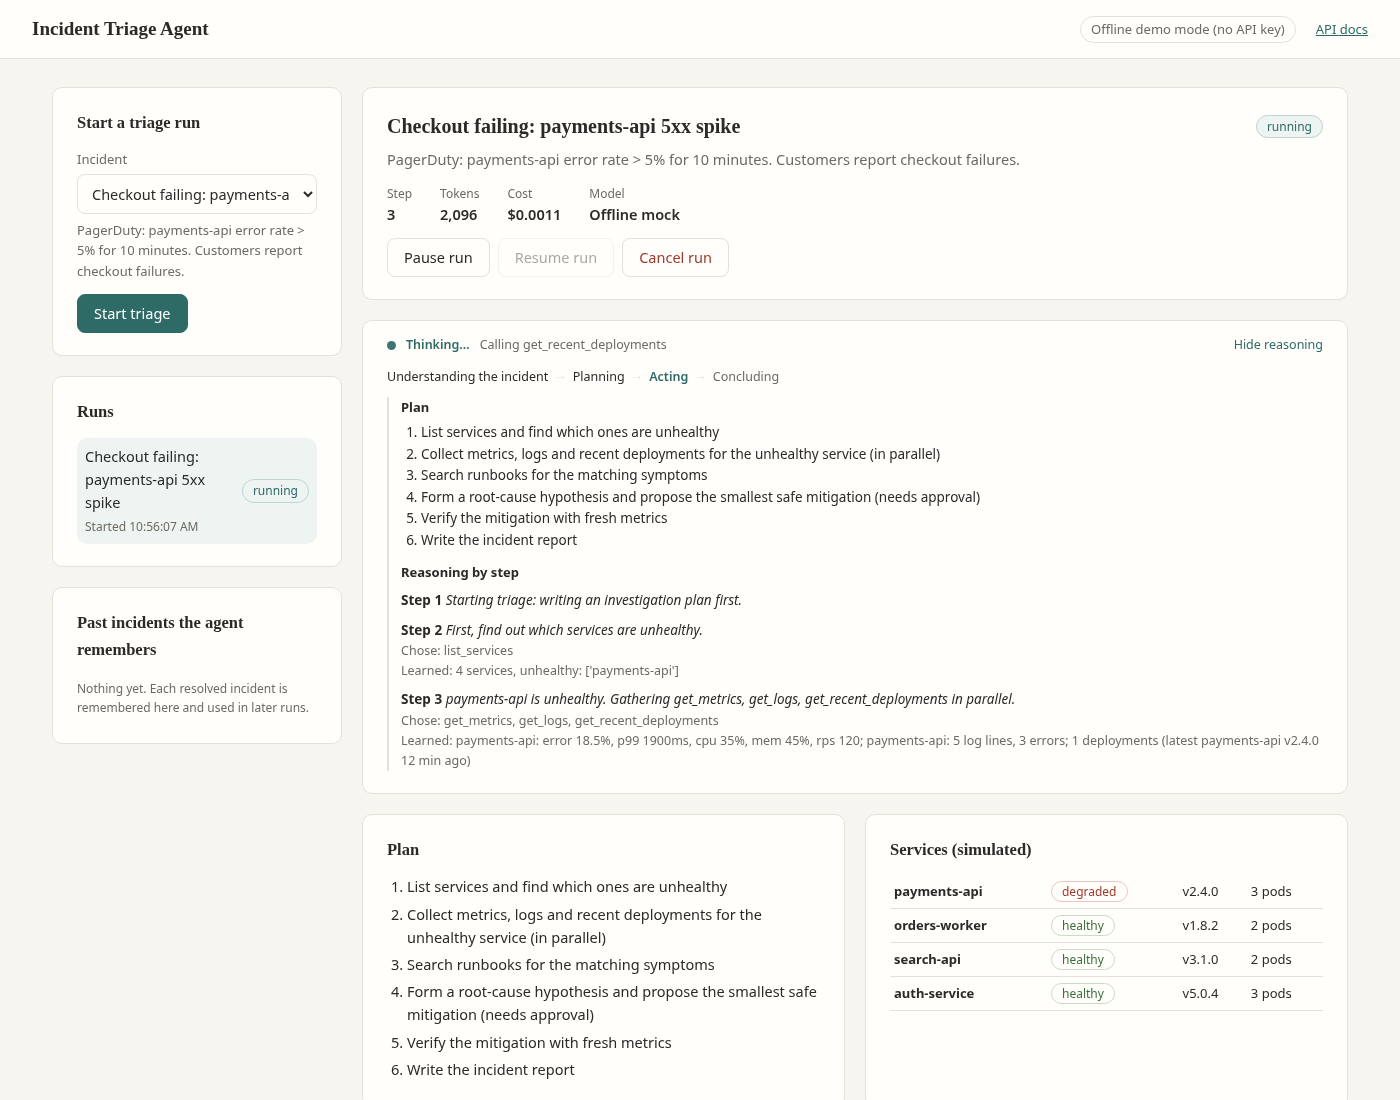
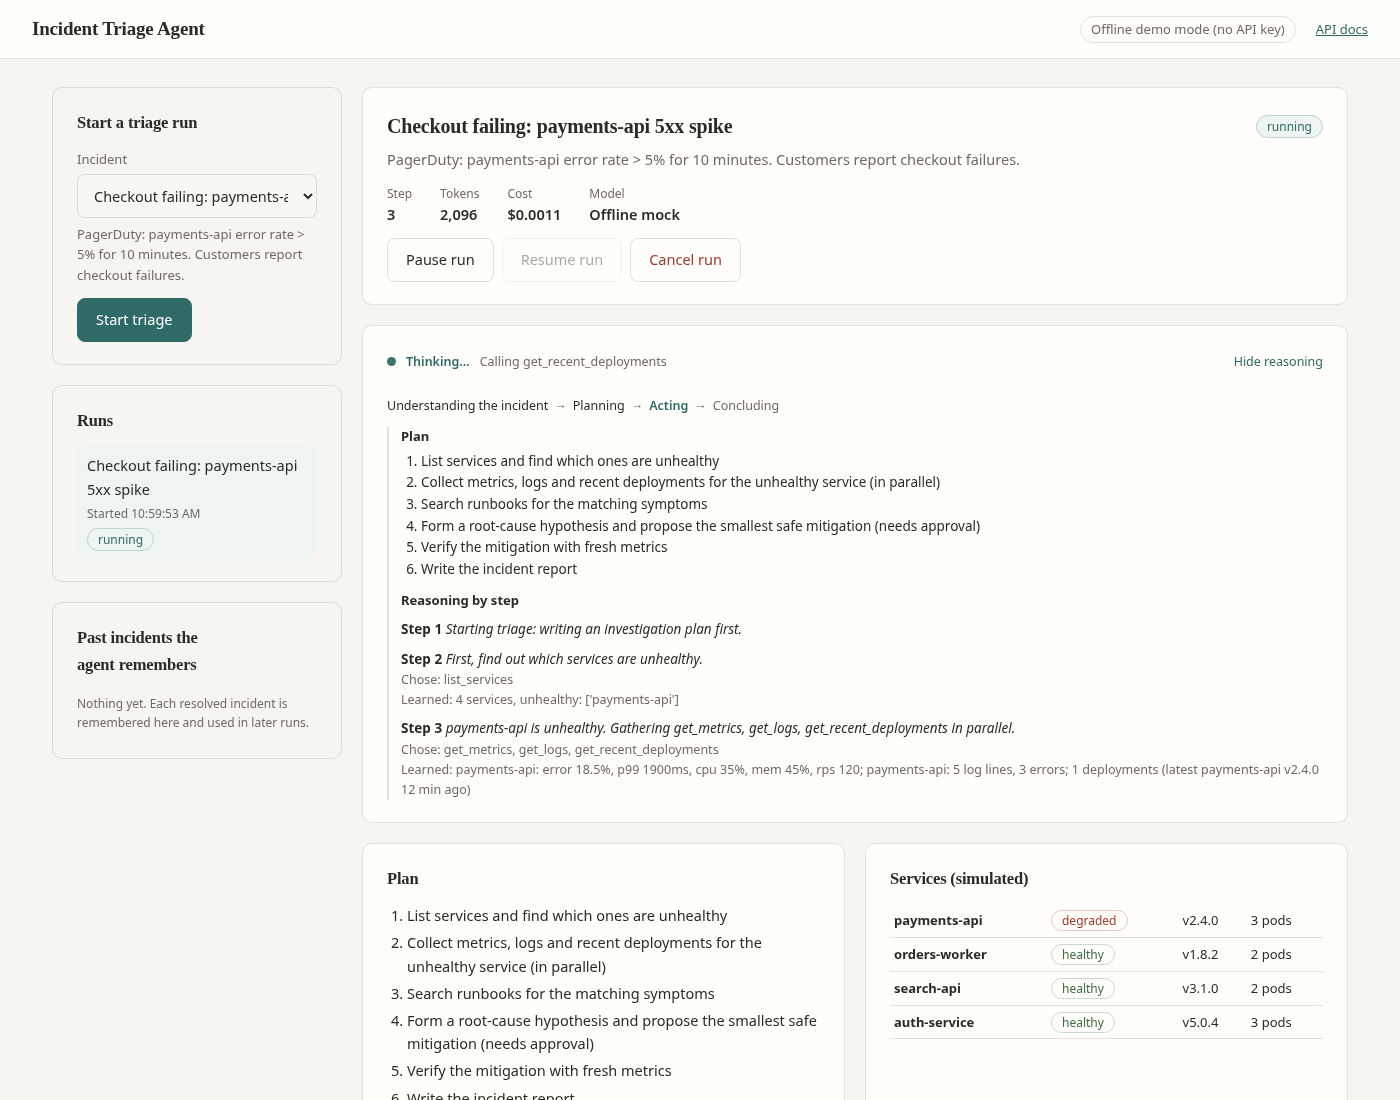
style(ui): polish pass with interface-design and better-ui skills
- interface-design (Dammyjay93): low-opacity rgba borders, inputs one step darker than their panel,
  sidebar shares the canvas (transparent panels, subtle edge), tighter heading tracking
- better-ui (jakubkrehel): press scale 0.96 over 150ms ease-out with named transition properties,
  hover styles only under (hover: hover), motion only under prefers-reduced-motion: no-preference
- ui-skills.com quick rules: tabular-nums on metrics, cost, tokens and timestamps; text-wrap balance on
  headings and pretty on body copy; 44x44px minimum hit area for buttons, inputs, run rows, thinking toggle
- run list: status pill under the title so long titles no longer wrap word by word
Styling only; verified in headless Chrome (start, approve, reject, pause/resume/cancel, no JS errors).

diff --git a/static/style.css b/static/style.css
@@ -5,7 +5,8 @@
   --muted: #6e6a62;
   --paper: #f7f5f0;
   --panel: #fffefb;
-  --line: #e5e1d8;
+  --inset: #f9f7f2;   /* inputs sit slightly darker than their panel */
+  --line: rgba(70, 58, 38, 0.14);   /* low-opacity edges blend with the warm surface */
   --accent: #2f6b66;   /* muted teal: primary actions, live state */
   --accent-bg: #edf4f2;
   --amber: #9a5b13;
@@ -20,7 +21,9 @@ body {
   margin: 0; background: var(--paper); color: var(--ink);
   font: 14.5px/1.6 "Segoe UI", system-ui, -apple-system, Roboto, sans-serif;
 }
-h1, h2 { margin: 0; font-weight: 600; font-family: "Iowan Old Style", Charter, "Palatino Linotype", Georgia, serif; }
+h1, h2 { margin: 0; font-weight: 600; font-family: "Iowan Old Style", Charter, "Palatino Linotype", Georgia, serif;
+  letter-spacing: -0.01em; text-wrap: balance; }
+p, li, .ev-body, .hint { text-wrap: pretty; }
 h1 { font-size: 19px; }
 h2 { font-size: 16.5px; margin-bottom: 12px; }
 a { color: var(--accent); }
@@ -46,12 +49,20 @@ code, .code { font-family: ui-monospace, SFMono-Regular, Menlo, Consolas, monosp
 label { display: block; font-size: 13px; color: var(--muted); margin-bottom: 4px; }
 
 /* controls */
-button { font: inherit; white-space: nowrap; padding: 7px 16px; border: 1px solid var(--line); border-radius: 8px; background: var(--panel); color: var(--ink); cursor: pointer; }
-button:hover:not(:disabled) { border-color: var(--muted); }
+button { font: inherit; white-space: nowrap; min-height: 44px; min-width: 44px; padding: 8px 18px; border: 1px solid var(--line);
+  border-radius: 8px; background: var(--panel); color: var(--ink); cursor: pointer; }
+@media (hover: hover) {
+  button:hover:not(:disabled) { border-color: var(--muted); }
+  .run-list li:hover { background: var(--accent-bg); }
+}
+@media (prefers-reduced-motion: no-preference) {
+  button { transition-property: scale, border-color; transition-duration: 150ms; transition-timing-function: ease-out; }
+  button:active:not(:disabled) { scale: 0.96; }
+}
 button:disabled { opacity: .4; cursor: not-allowed; }
 button.primary { background: var(--accent); border-color: var(--accent); color: #fff; }
 button.danger { color: var(--red); }
-select, input { font: inherit; width: 100%; padding: 8px 10px; border: 1px solid var(--line); border-radius: 8px; background: var(--panel); color: var(--ink); }
+select, input { font: inherit; width: 100%; min-height: 44px; padding: 8px 12px; border: 1px solid var(--line); border-radius: 8px; background: var(--inset); color: var(--ink); }
 :focus-visible { outline: 2px solid var(--accent); outline-offset: 2px; }
 .actions { display: flex; gap: 8px; flex-wrap: wrap; margin-top: 12px; }
 .inline { display: flex; gap: 8px; }
@@ -61,7 +72,8 @@ select, input { font: inherit; width: 100%; padding: 8px 10px; border: 1px solid
 .run-title h2 { margin: 0; flex: 1; font-size: 20px; }
 .stats { display: flex; gap: 28px; margin: 0; flex-wrap: wrap; }
 .stats dt { font-size: 12px; color: var(--muted); }
-.stats dd { margin: 0; font-weight: 600; font-variant-numeric: tabular-nums; }
+.stats dd { margin: 0; font-weight: 600; }
+.stats, .ev-when, .run-list .sub, .meta, .th-title, .infra { font-variant-numeric: tabular-nums; }
 
 /* status pill: colour carries meaning, text says it too */
 .status { font-size: 12px; padding: 1px 10px; border-radius: 999px; border: 1px solid var(--line); background: var(--panel); white-space: nowrap; }
@@ -85,8 +97,9 @@ select, input { font: inherit; width: 100%; padding: 8px 10px; border: 1px solid
 /* lists */
 .run-list, .memory-list { list-style: none; padding: 0; margin: 0; }
 .run-list { max-height: 320px; overflow: auto; }
-.run-list li { display: flex; justify-content: space-between; align-items: center; gap: 8px; padding: 7px 8px; border-radius: var(--radius); cursor: pointer; }
-.run-list li:hover, .run-list li.active { background: var(--accent-bg); }
+.run-list li { display: flex; flex-direction: column; align-items: flex-start; gap: 4px; min-height: 44px; padding: 8px 10px;
+  border-radius: var(--radius); cursor: pointer; }
+.run-list li.active { background: var(--accent-bg); }
 .run-list .sub, .memory-list { font-size: 12px; color: var(--muted); }
 .memory-list li { padding: 4px 0; border-bottom: 1px solid var(--line); }
 .memory-list li:last-child { border-bottom: 0; }
@@ -112,14 +125,14 @@ details pre { background: var(--paper); border: 1px solid var(--line); padding: 
 
 /* thinking panel: one line while collapsed, the agent's reasoning when opened */
 .thinking { padding: 14px 24px; }
-.thinking summary { display: flex; align-items: baseline; gap: 10px; cursor: pointer; list-style: none; }
+.thinking summary { display: flex; align-items: center; gap: 10px; min-height: 44px; cursor: pointer; list-style: none; }
 .thinking summary::-webkit-details-marker { display: none; }
-.thinking summary::after { content: "Show reasoning"; margin-left: auto; font-size: 12.5px; color: var(--accent); white-space: nowrap; }
+.thinking summary::after { content: "Show reasoning"; font-size: 12.5px; color: var(--accent); white-space: nowrap; }
 .thinking[open] summary::after { content: "Hide reasoning"; }
-.th-dot { width: 9px; height: 9px; border-radius: 50%; background: var(--muted); flex: none; align-self: center; }
+.th-dot { width: 9px; height: 9px; border-radius: 50%; background: var(--muted); flex: none; }
 .thinking.live .th-dot { background: var(--accent); animation: th-pulse 1.4s ease-in-out infinite; }
 .th-title { font-weight: 600; white-space: nowrap; }
-.th-line { color: var(--muted); overflow: hidden; text-overflow: ellipsis; white-space: nowrap; min-width: 0; }
+.th-line { flex: 1; color: var(--muted); overflow: hidden; text-overflow: ellipsis; white-space: nowrap; min-width: 0; }
 .thinking.live .th-title { color: var(--accent); }
 .th-phases { display: flex; gap: 6px; list-style: none; padding: 0; margin: 12px 0 8px; font-size: 12.5px; color: var(--muted); flex-wrap: wrap; }
 .th-phases li + li::before { content: "→"; margin-right: 6px; color: var(--muted); }
@@ -138,3 +151,6 @@ details pre { background: var(--paper); border: 1px solid var(--line); padding: 
   .layout, .columns { grid-template-columns: 1fr; }
   .ev { grid-template-columns: 1fr; gap: 2px; }
 }
+
+/* the sidebar shares the canvas; a subtle edge is enough (interface-design) */
+.sidebar .panel { background: transparent; }
